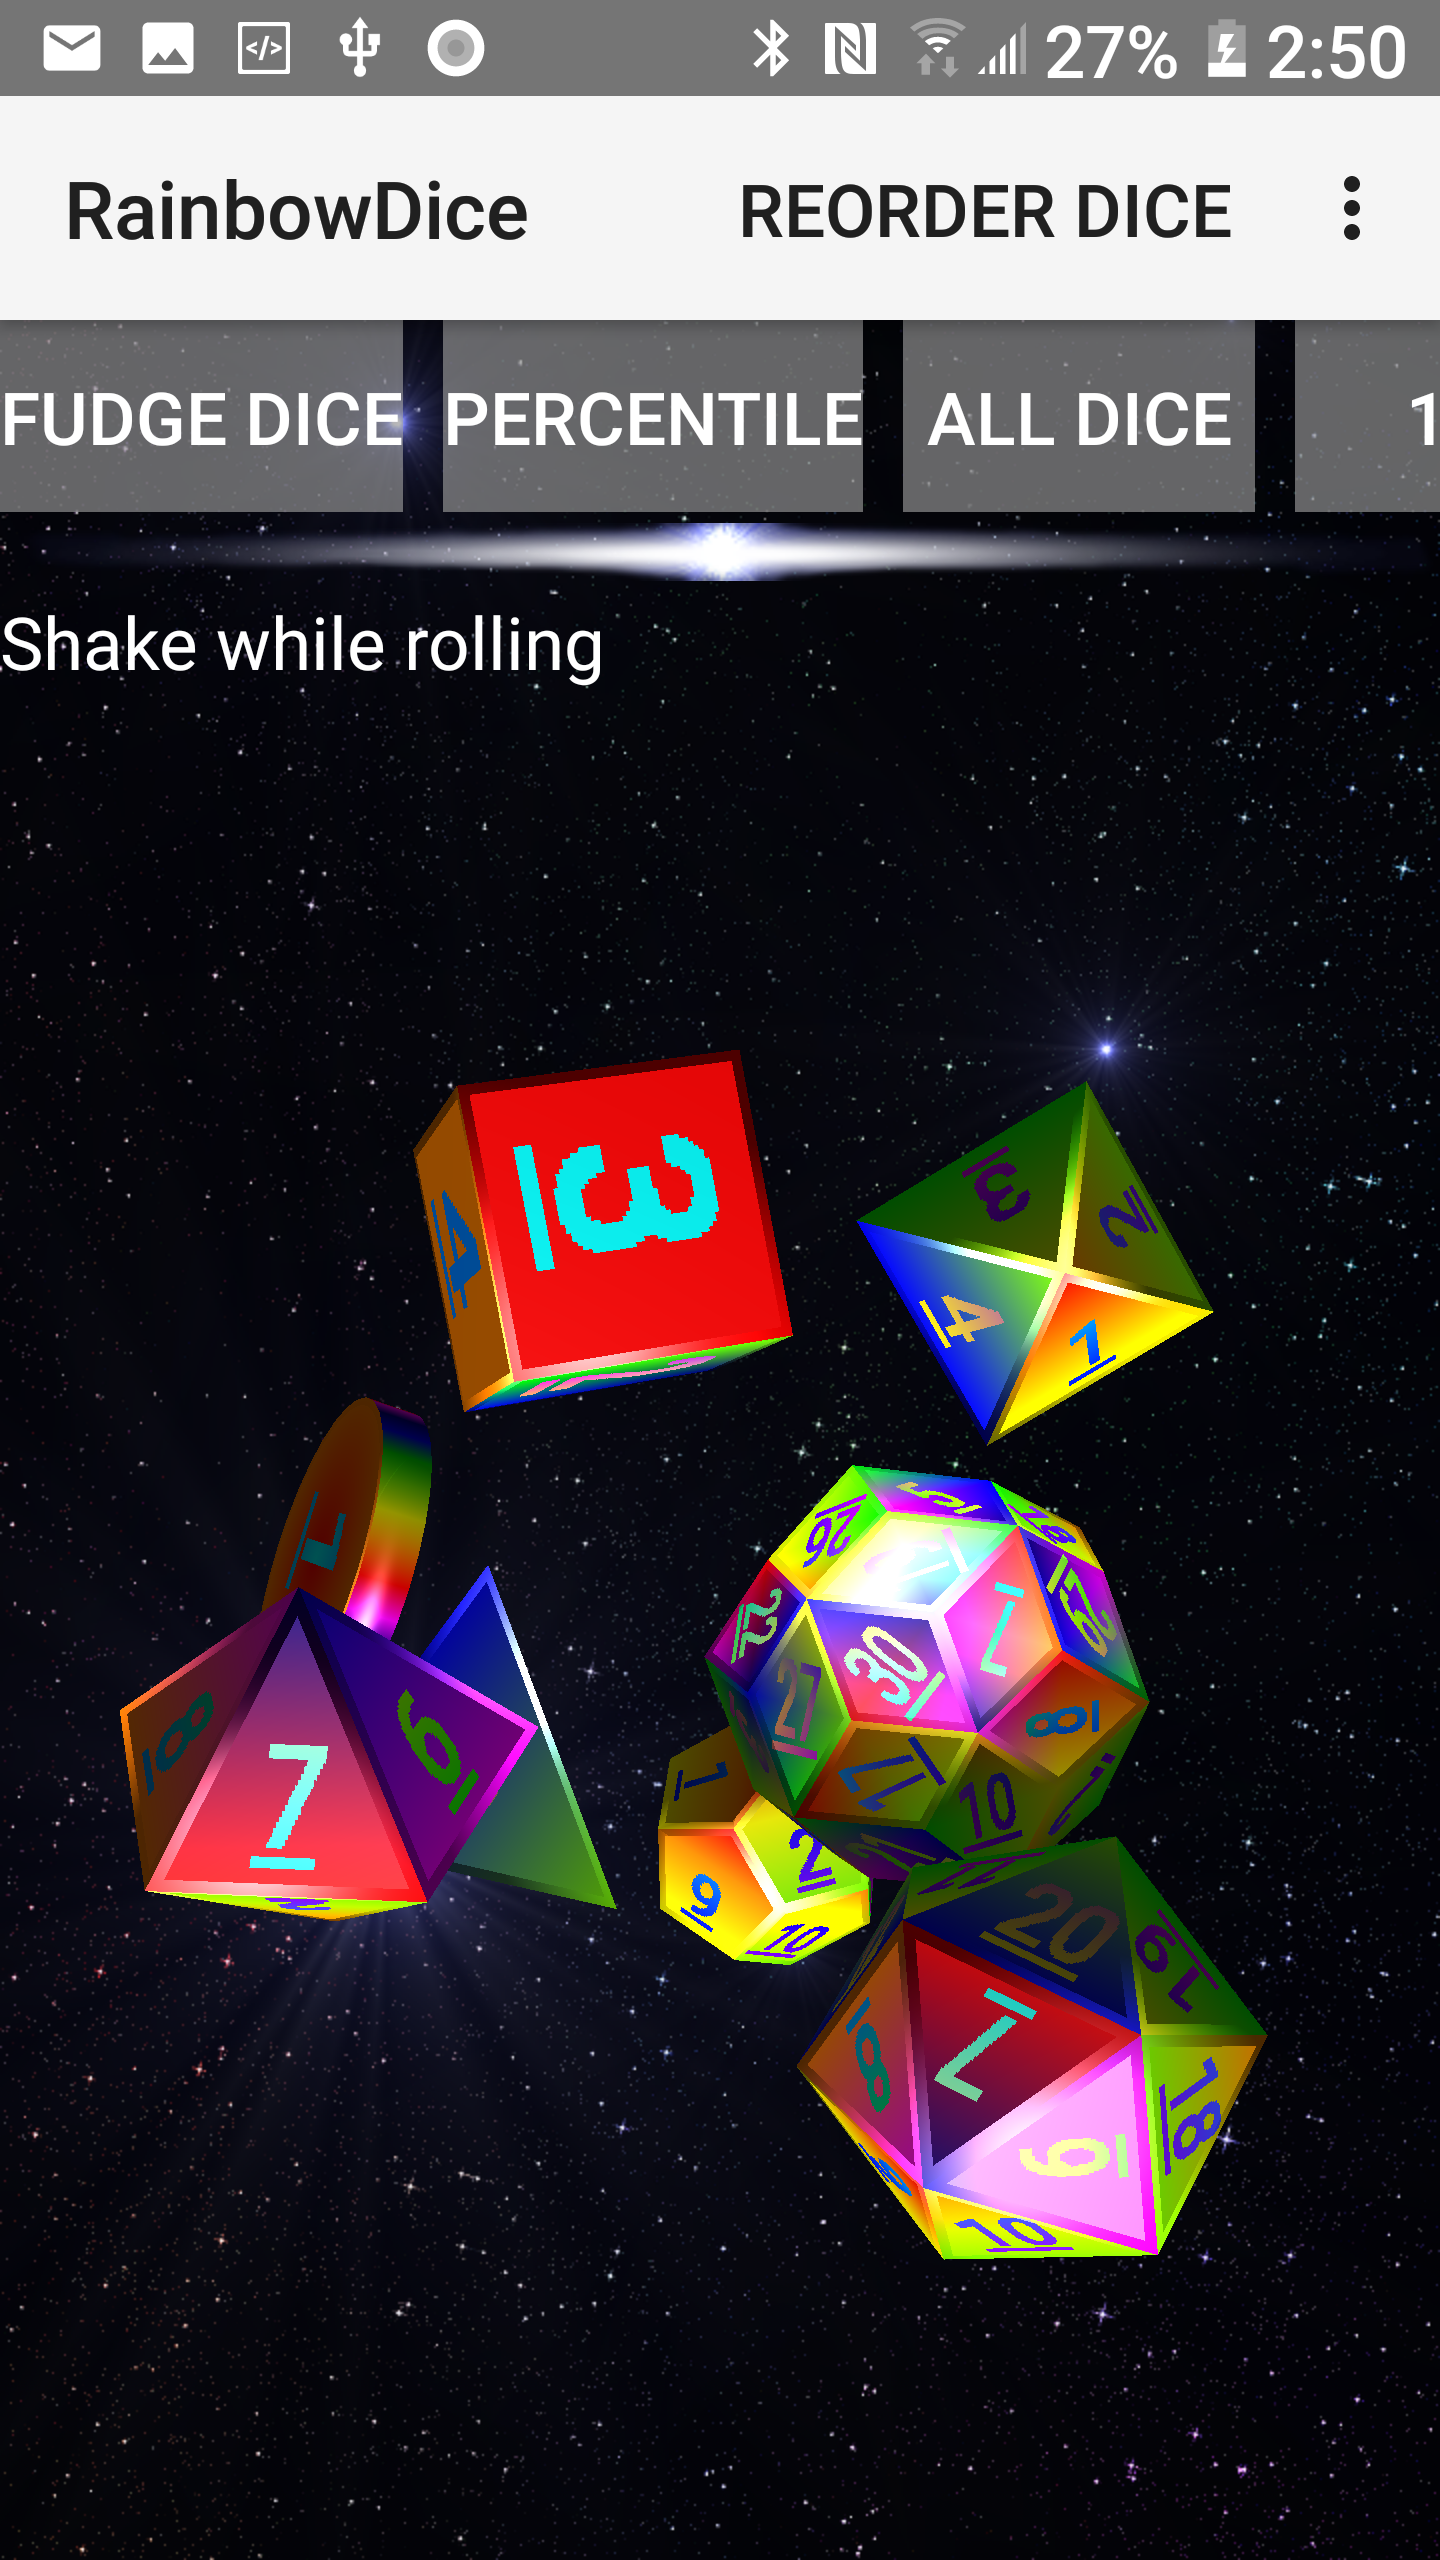
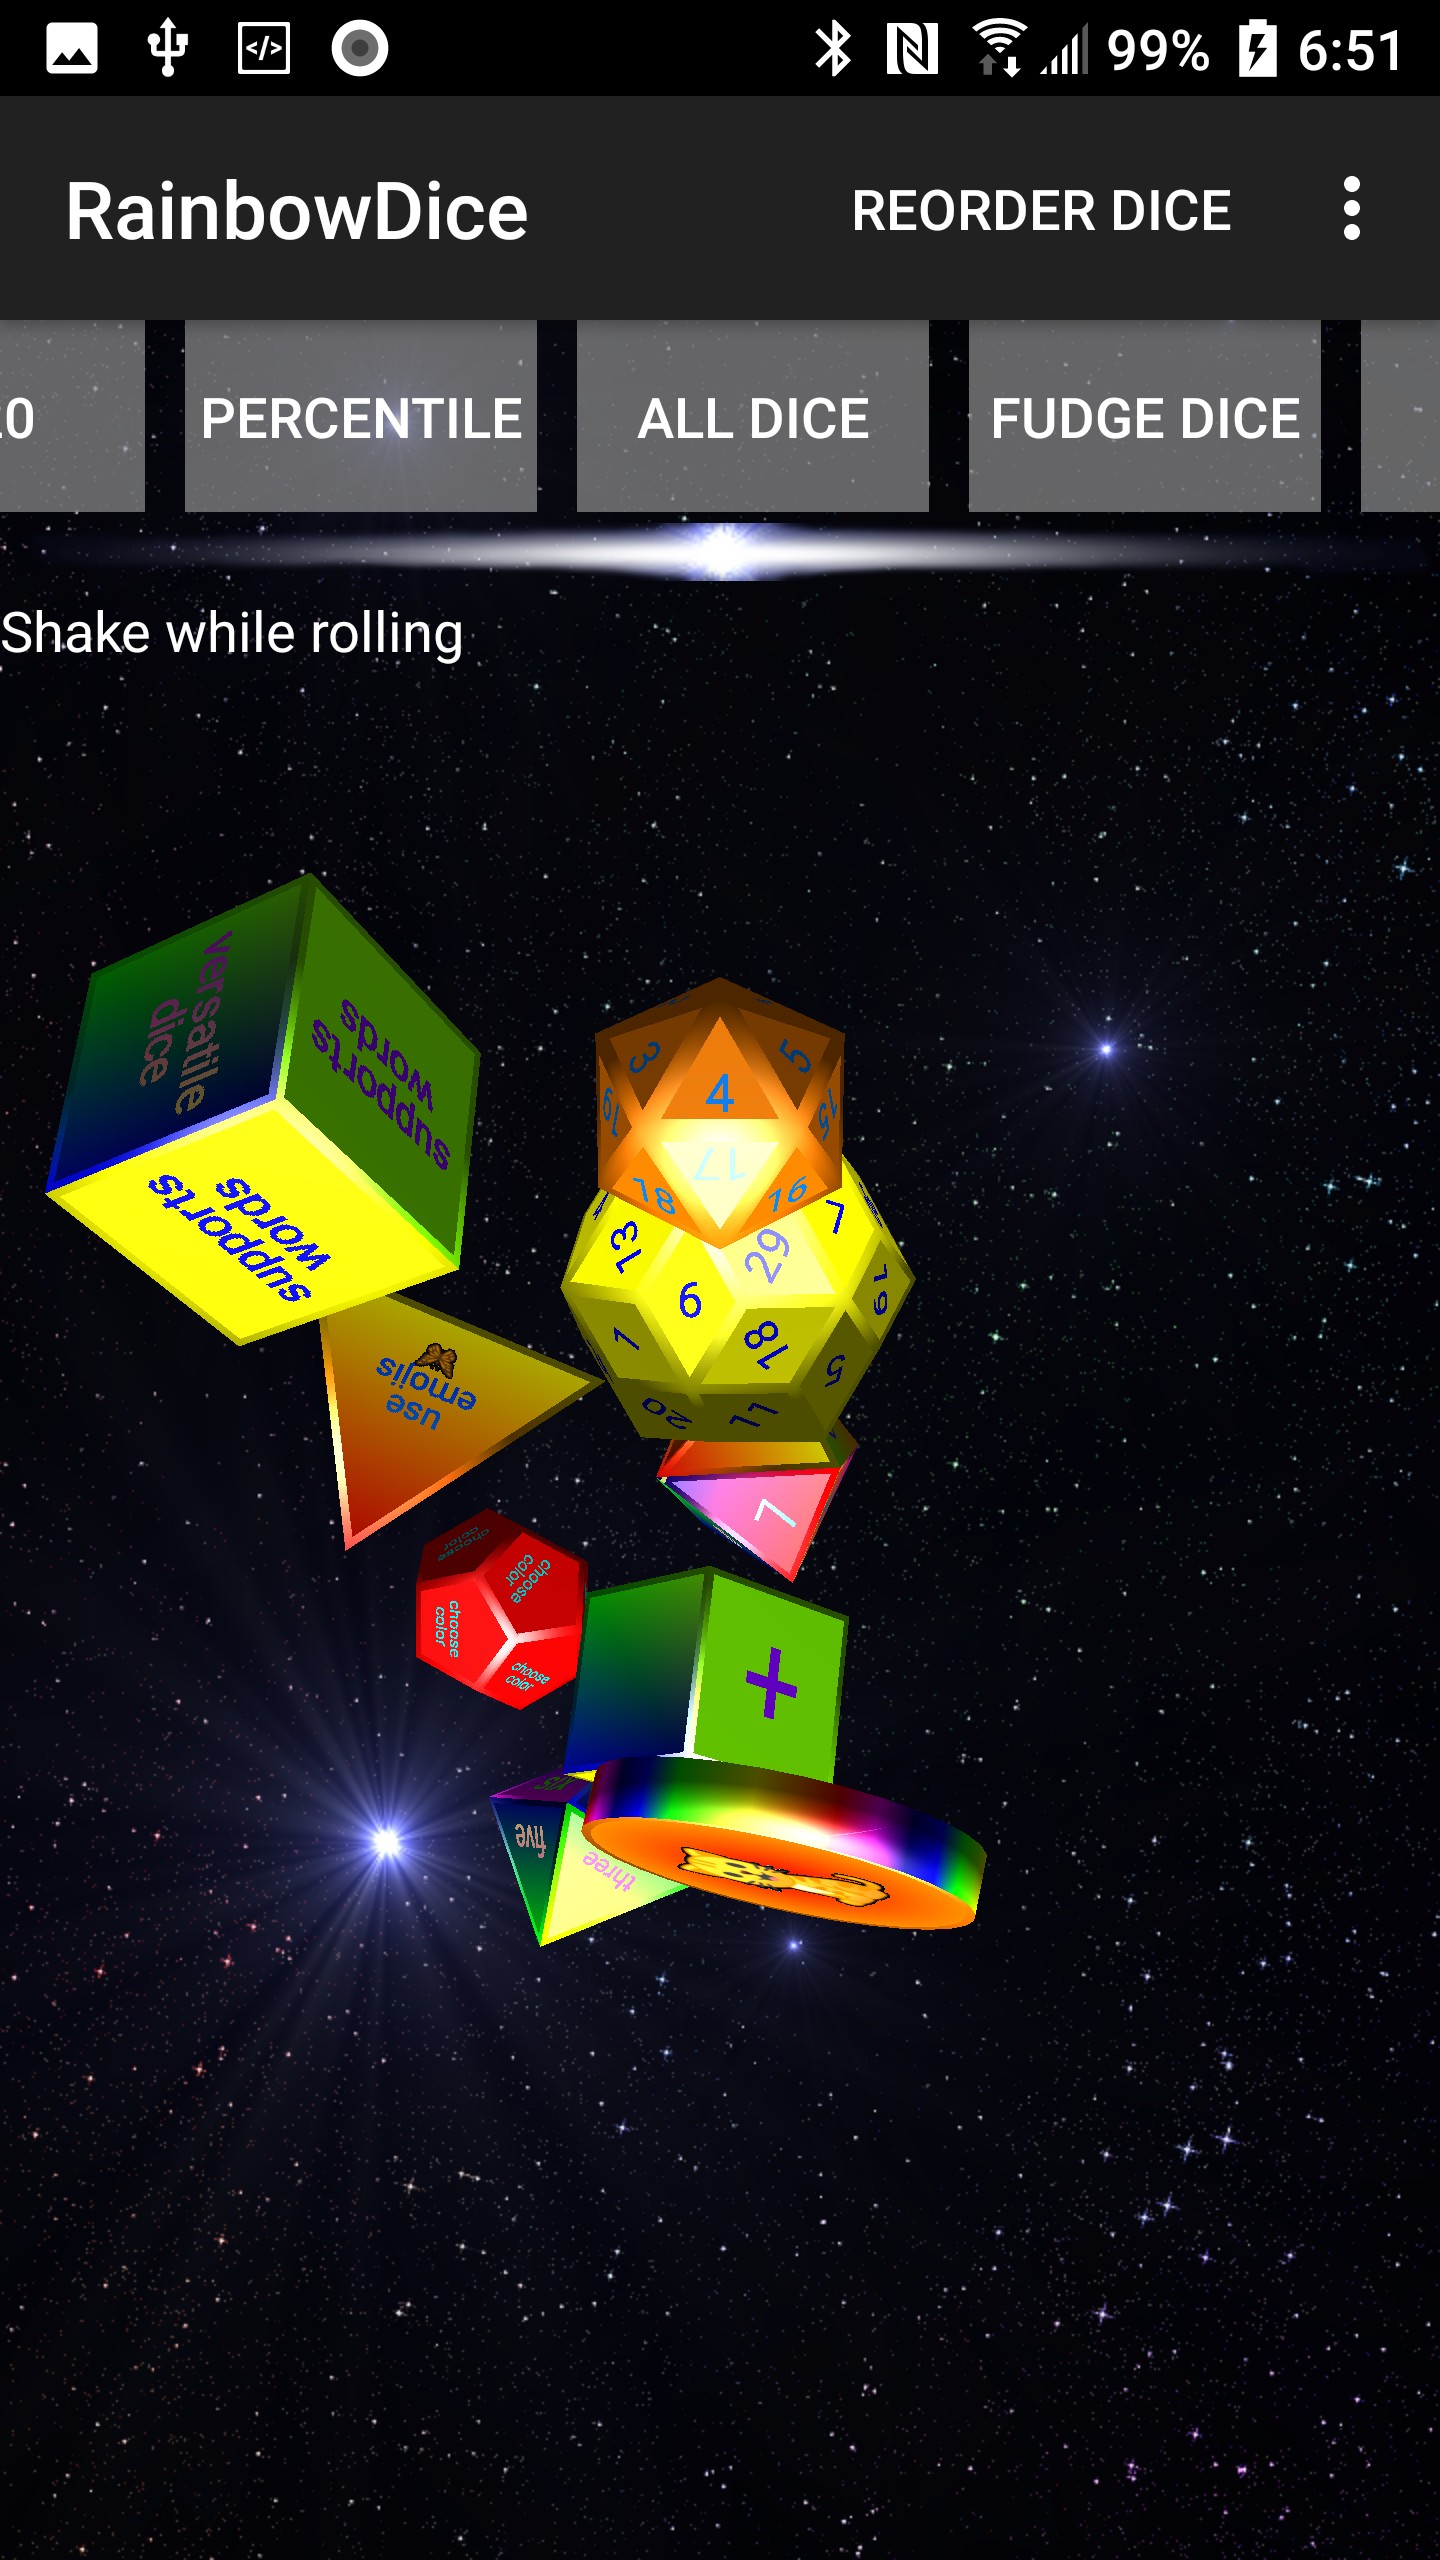
Modified user documentation and screen shots

diff --git a/README.md b/README.md
@@ -1,12 +1,14 @@
 # Rainbow Dice: dice roller
 Rainbow Dice is a dice roller aimed at supporting any game requiring dice
 including role playing games.  When using this dice roller, gamers can specify
-the number of dice, the number of sides, what number each die starts at, on
-what if any number the dice are re-rolled on, and whether two consecutive dice
+the number of dice, the number of sides, the numbers, words or emojis that go on each side, on
+what if any side the dice are re-rolled on, and whether two consecutive dice
 definitions should have their results added or subtracted.  The dice roller
-also allows the increment to be something other than 1.  The result of each
+also allows the symbols that go on the faces to be mapped to numeric values.
+This is useful, for example, in the fudge dice system, the dice faces have "+", blank,
+and "minus" and have values: 1, 0, and -1 respectively.  The result of each
 roll is printed at the top of the screen and is stored in a log file.  The log
-file holds a max of 10 entries.
+file holds a maximum of 10 entries.
 
 The dice roller displays the dice in 3D (using the Vulkan library or OpenGL 2.0
 if Vulkan is not available).  The program uses the accelerometer to calculate
@@ -31,23 +33,32 @@ as displayed in the text box showing the result.
 <img src=screenshots/rainbowDice1.png width=200> <img src=screenshots/rainbowDice2.png width=200>
 
 This picture shows the order selection screen.  The user enters this activity by
-clicking on "Choose Dice" from the main screen.  In this activity, the user can order
+clicking on "Reorder Dice" from the main screen.  In this activity, the user can order
 their dice configurations.  Changing the order in this list changes the order in the
 list in the main activity at the top of the screen.  Users may wish to order their
-dice based off of how often they use them or group them by game.
+dice based off of how often they use them or group them by game.  Gamers can also
+use this screen to edit dice configurations or delete them.
 
 <img src=screenshots/rainbowDice_favoriteSelection.png width=200> 
 
 See below for a picture of the dice customization screen.  The user enters this
-activity when they select "New" from the order selection screen.  In this screen,
-the user can configure a new dice customization.  Gamers can select the number of sides
-the dice have, the start value (the lowest value to be displayed on the die), the next
-value (the next lowest value to be displayed on the die), on what number the die should
-be re-rolled on (empty indicates no re-rolling will be done).  Re-roll results will be
-added (or subtracted if the operation is subtraction for that configuration) to the
-original result.
+activity when they select "New" from the main screen or the order selection screen, or the
+user selects a dice configuration to be edited in the order selection screen.  In this screen,
+the user can configure a new dice customization.  Gamers can select the number of dice,
+the number of sides the dice have, whether they are to be added or subtracted, and the color of
+the dice.
 
 <img src=screenshots/rainbowDice_customization1.png width=200> <img src=screenshots/rainbowDice_customization2.png width=400>
+
+If the user clicks on the details button in the dice customization screen, then the
+Dice Sides screen will be displayed.  On the dice sides screen, gamers can select the
+symbols to go on the dice faces, the numeric values if any that they represent.  And
+whether the die will be rerolled if a specified face lands up.  Re-roll results will be
+added (or subtracted if the operation is subtraction for that configuration) to the
+original result. If no value is selected for the dice sides, then the results will just
+list how many of each symbol was rolled.
+
+<img src=screenshots/rainbowDice_diceSides.png width=200>
 
 An example log file:
 
